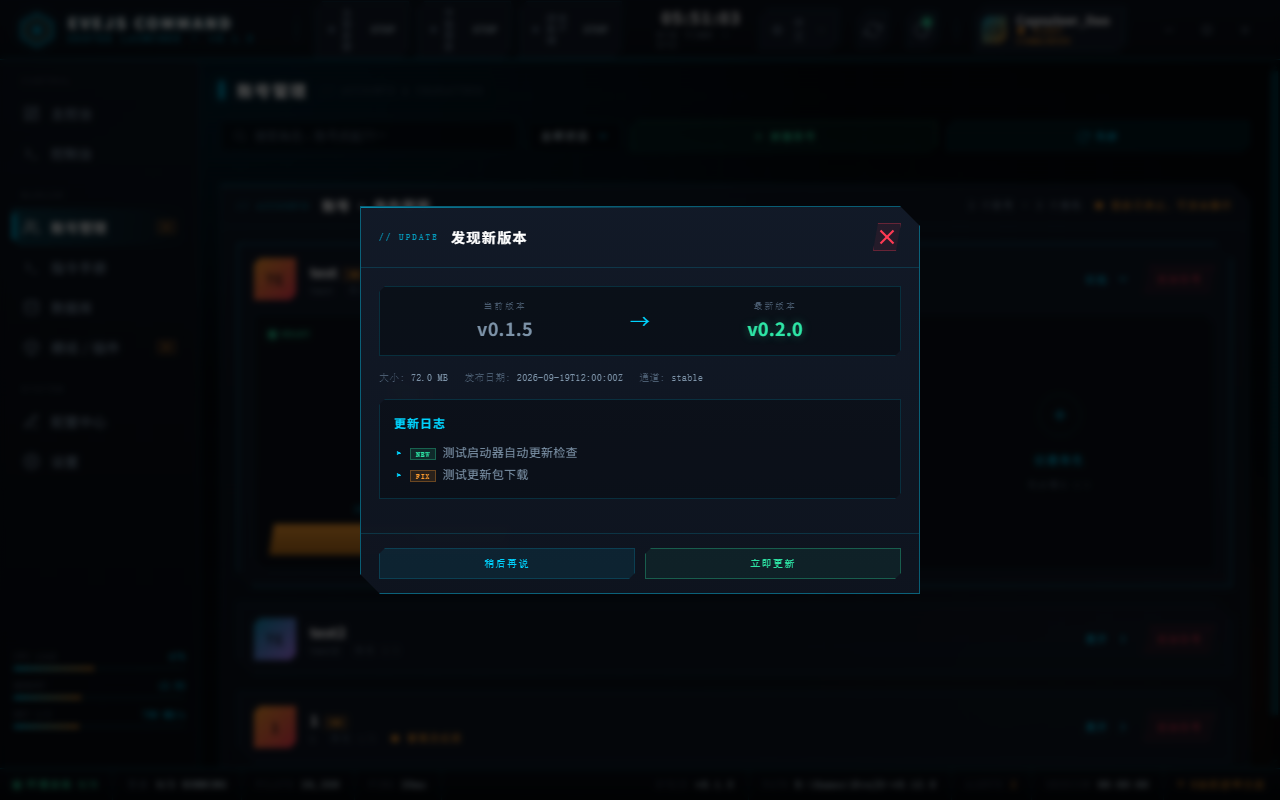
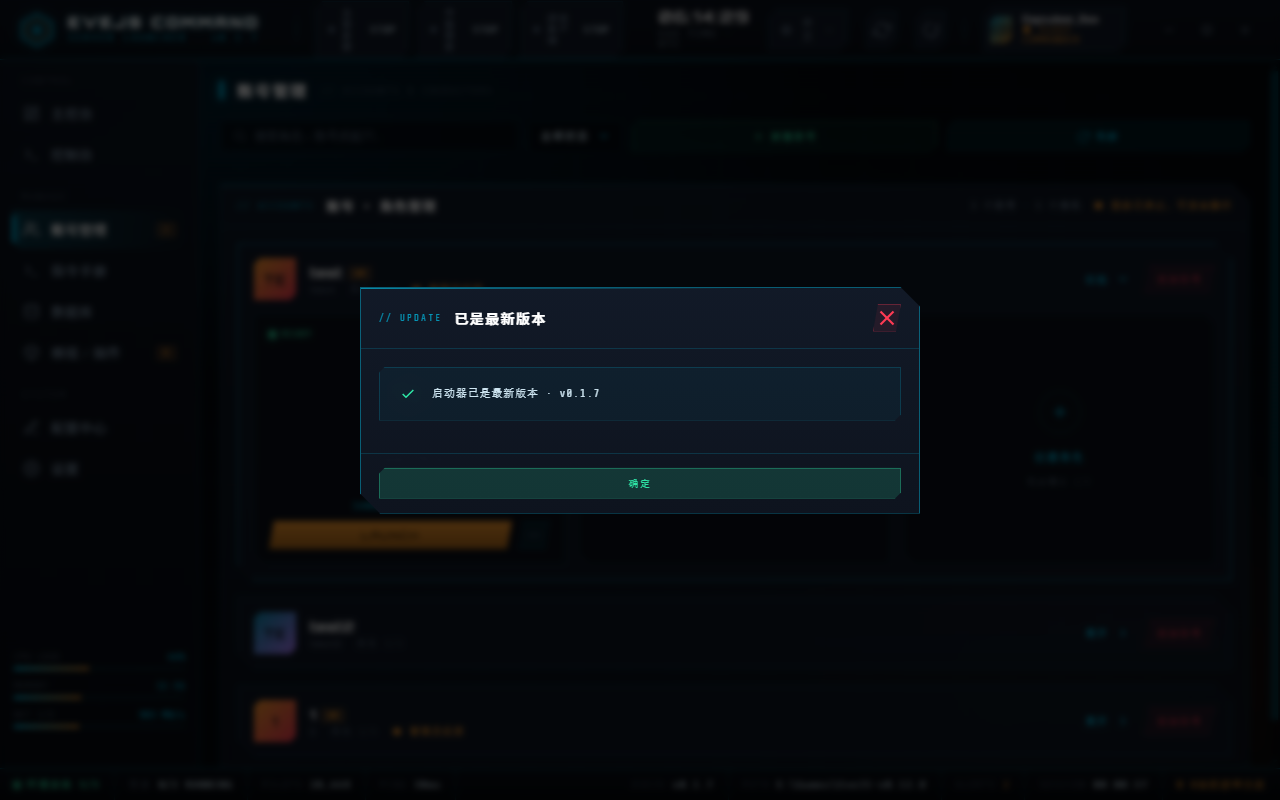
Use Electron net.fetch for launcher updates

diff --git a/src/main/updater.ts b/src/main/updater.ts
@@ -1,4 +1,4 @@
-import { app, BrowserWindow } from "electron";
+import { app, BrowserWindow, net } from "electron";
 import * as crypto from "crypto";
 import * as fs from "fs";
 import * as path from "path";
@@ -90,7 +90,7 @@ function resolveManifestUrl(): string {
 async function readManifest(url: string): Promise<UpdateManifest> {
   if (url.startsWith("file://")) return JSON.parse(fs.readFileSync(new URL(url), "utf8")) as UpdateManifest;
   if (path.isAbsolute(url) && fs.existsSync(url)) return JSON.parse(fs.readFileSync(url, "utf8")) as UpdateManifest;
-  const response = await fetch(url, { headers: { "User-Agent": `EvEJS-Launcher/${app.getVersion()}` } });
+  const response = await net.fetch(url, { headers: { "User-Agent": `EvEJS-Launcher/${app.getVersion()}` } });
   if (!response.ok) throw new Error(`更新服务器返回 HTTP ${response.status}`);
   return (await response.json()) as UpdateManifest;
 }
@@ -189,7 +189,7 @@ async function downloadToFile(url: string, destination: string, expectedSize: nu
       for await (const chunk of fs.createReadStream(new URL(url))) await writeChunk(chunk as Buffer);
     } else {
       activeDownload = new AbortController();
-      const response = await fetch(url, { signal: activeDownload.signal, headers: { "User-Agent": `EvEJS-Launcher/${app.getVersion()}` } });
+      const response = await net.fetch(url, { signal: activeDownload.signal, headers: { "User-Agent": `EvEJS-Launcher/${app.getVersion()}` } });
       if (!response.ok || !response.body) throw new Error(`下载更新失败: HTTP ${response.status}`);
       const reader = response.body.getReader();
       while (true) {

diff --git a/src/renderer/public/eve-launcher.html b/src/renderer/public/eve-launcher.html
@@ -757,7 +757,7 @@
       </div>
       <div class="logo-text">
         <div class="t1">EVEJS COMMAND</div>
-        <div class="t2">SERVER LAUNCHER · v0.1.6</div>
+        <div class="t2">SERVER LAUNCHER · v0.1.7</div>
       </div>
     </div>
     <div class="topbar-divider"></div>
@@ -1170,7 +1170,7 @@
     <div class="sb-cell"><span class="k">PILOTS</span><span class="v" id="sbPilots">28,471</span></div>
     <div class="sb-cell"><span class="k">PING</span><span class="v" id="sbPing">23ms</span></div>
     <div class="sb-spacer"></div>
-    <div class="sb-cell"><span class="k">EVEJS</span><span class="v">v0.1.6</span></div>
+    <div class="sb-cell"><span class="k">EVEJS</span><span class="v">v0.1.7</span></div>
     <div class="sb-cell"><span class="k">PATH</span><span class="v" id="sbPath">/opt/evejs</span></div>
     <div class="sb-cell warn"><span class="k">ALERTS</span><span class="v">2</span></div>
     <div class="sb-cell"><span class="k">SESSION</span><span class="v" id="sbSession">00:00:00</span></div>
@@ -2532,7 +2532,7 @@ document.addEventListener('click',e=>{ if(e.target.classList&&e.target.classList
 
 
 /* ============ UPDATE SYSTEM ============ */
-const CURRENT_VER='v0.1.6';
+const CURRENT_VER='v0.1.7';
 const LATEST_VER='v0.2.0';
 const UPDATE_INFO={
   version: LATEST_VER,

diff --git a/README.md b/README.md
@@ -51,7 +51,7 @@ update-manifest.json
 启动器更新清单地址示例：
 
 ```text
-https://github.com/diguo520/EVEjs-launcher/releases/download/v0.1.6/update-manifest.json
+https://github.com/diguo520/EVEjs-launcher/releases/download/v0.1.7/update-manifest.json
 ```
 
 ## 任务视图（服务器日志）
